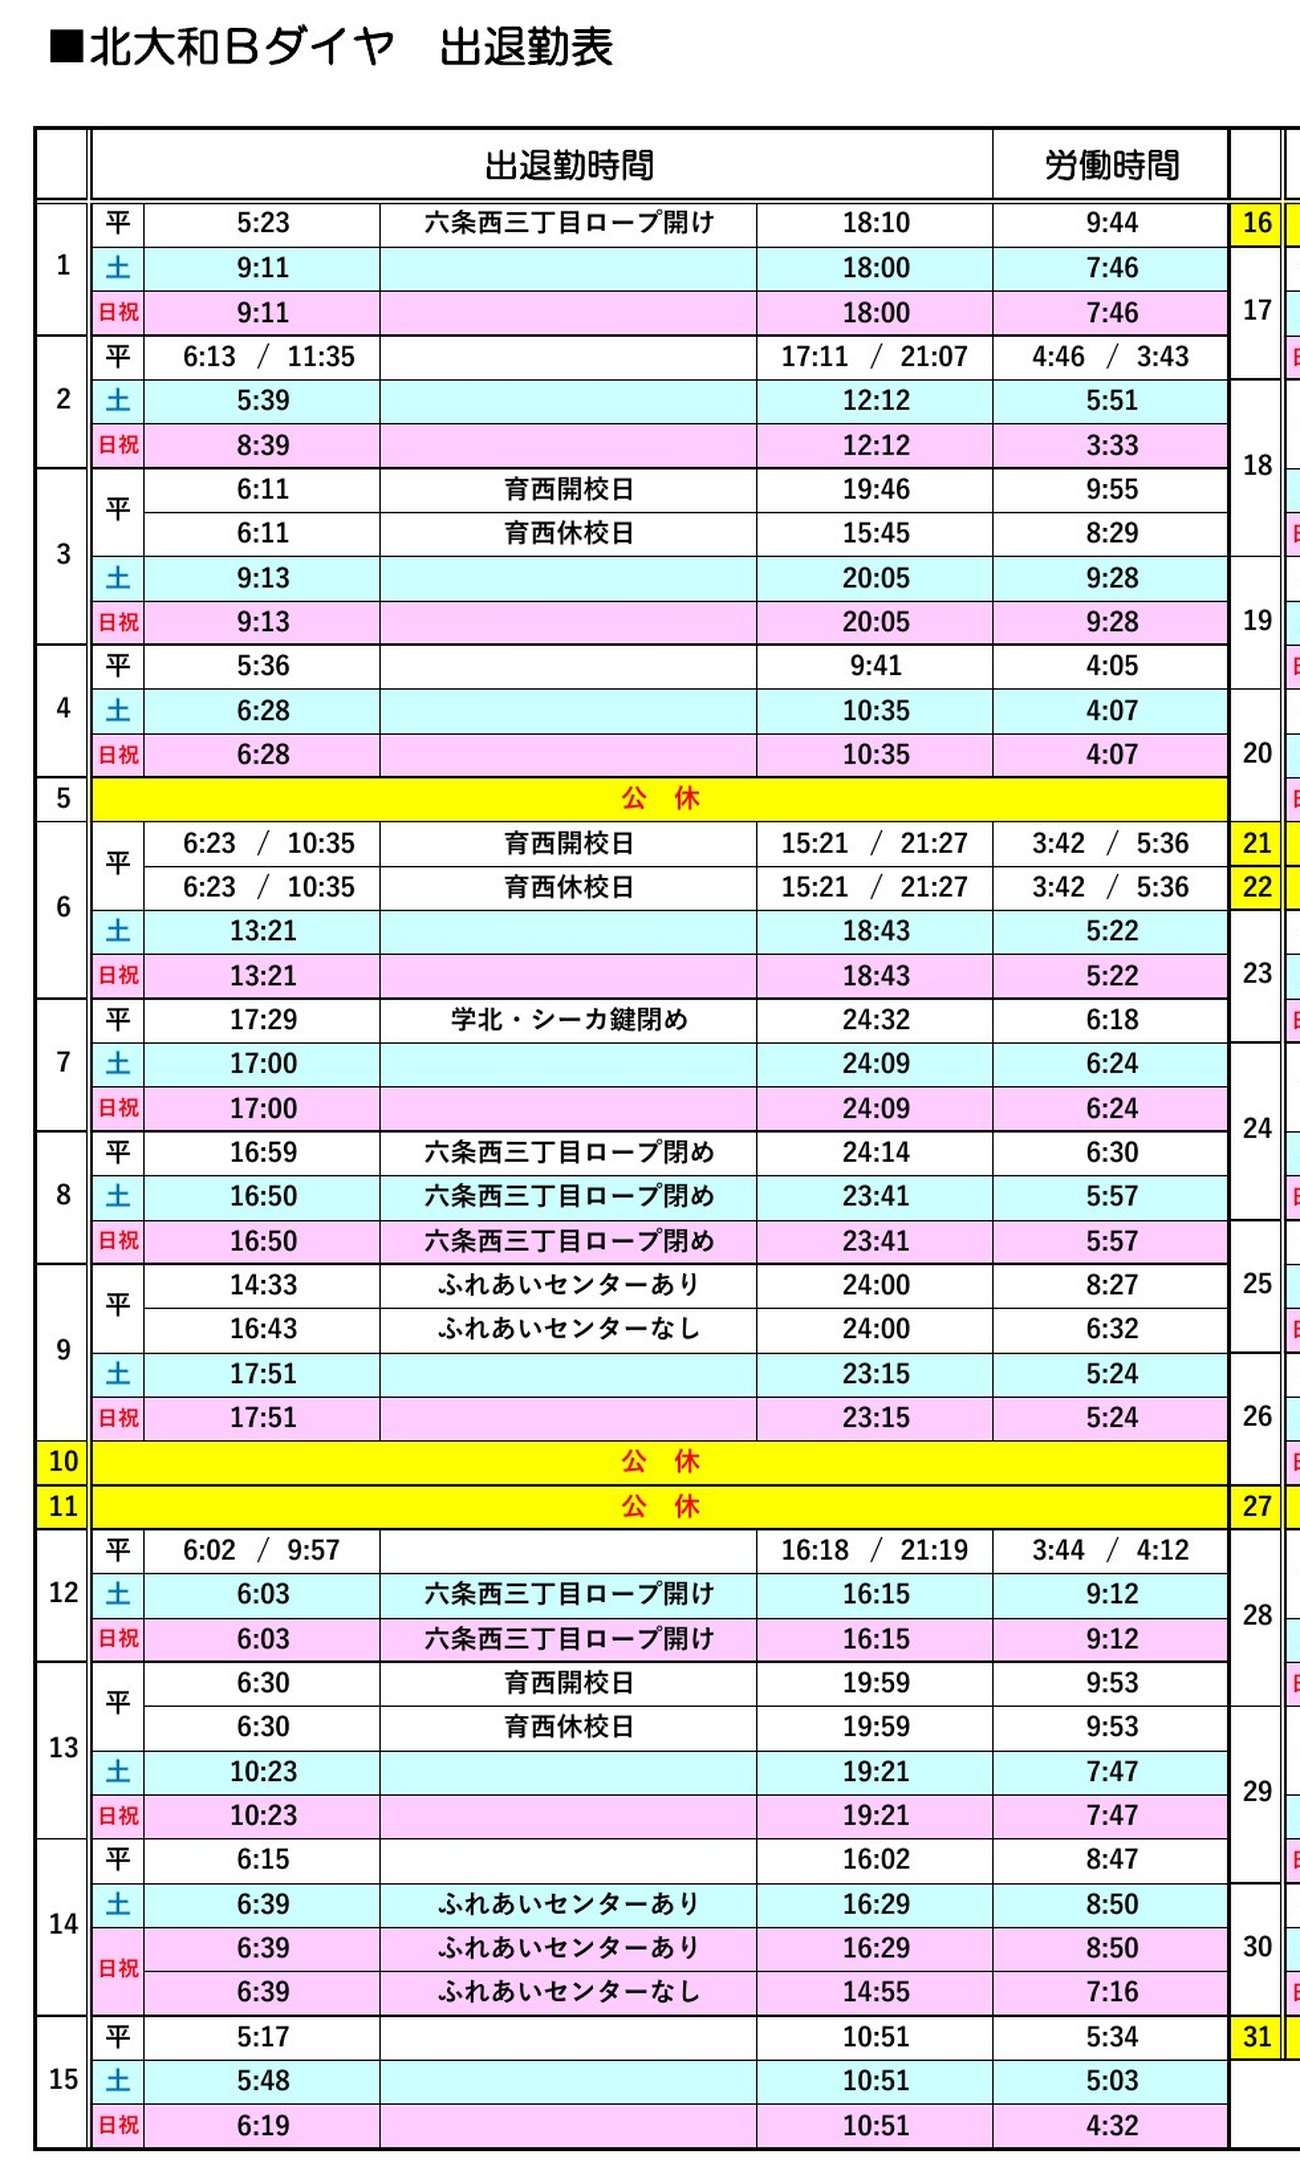
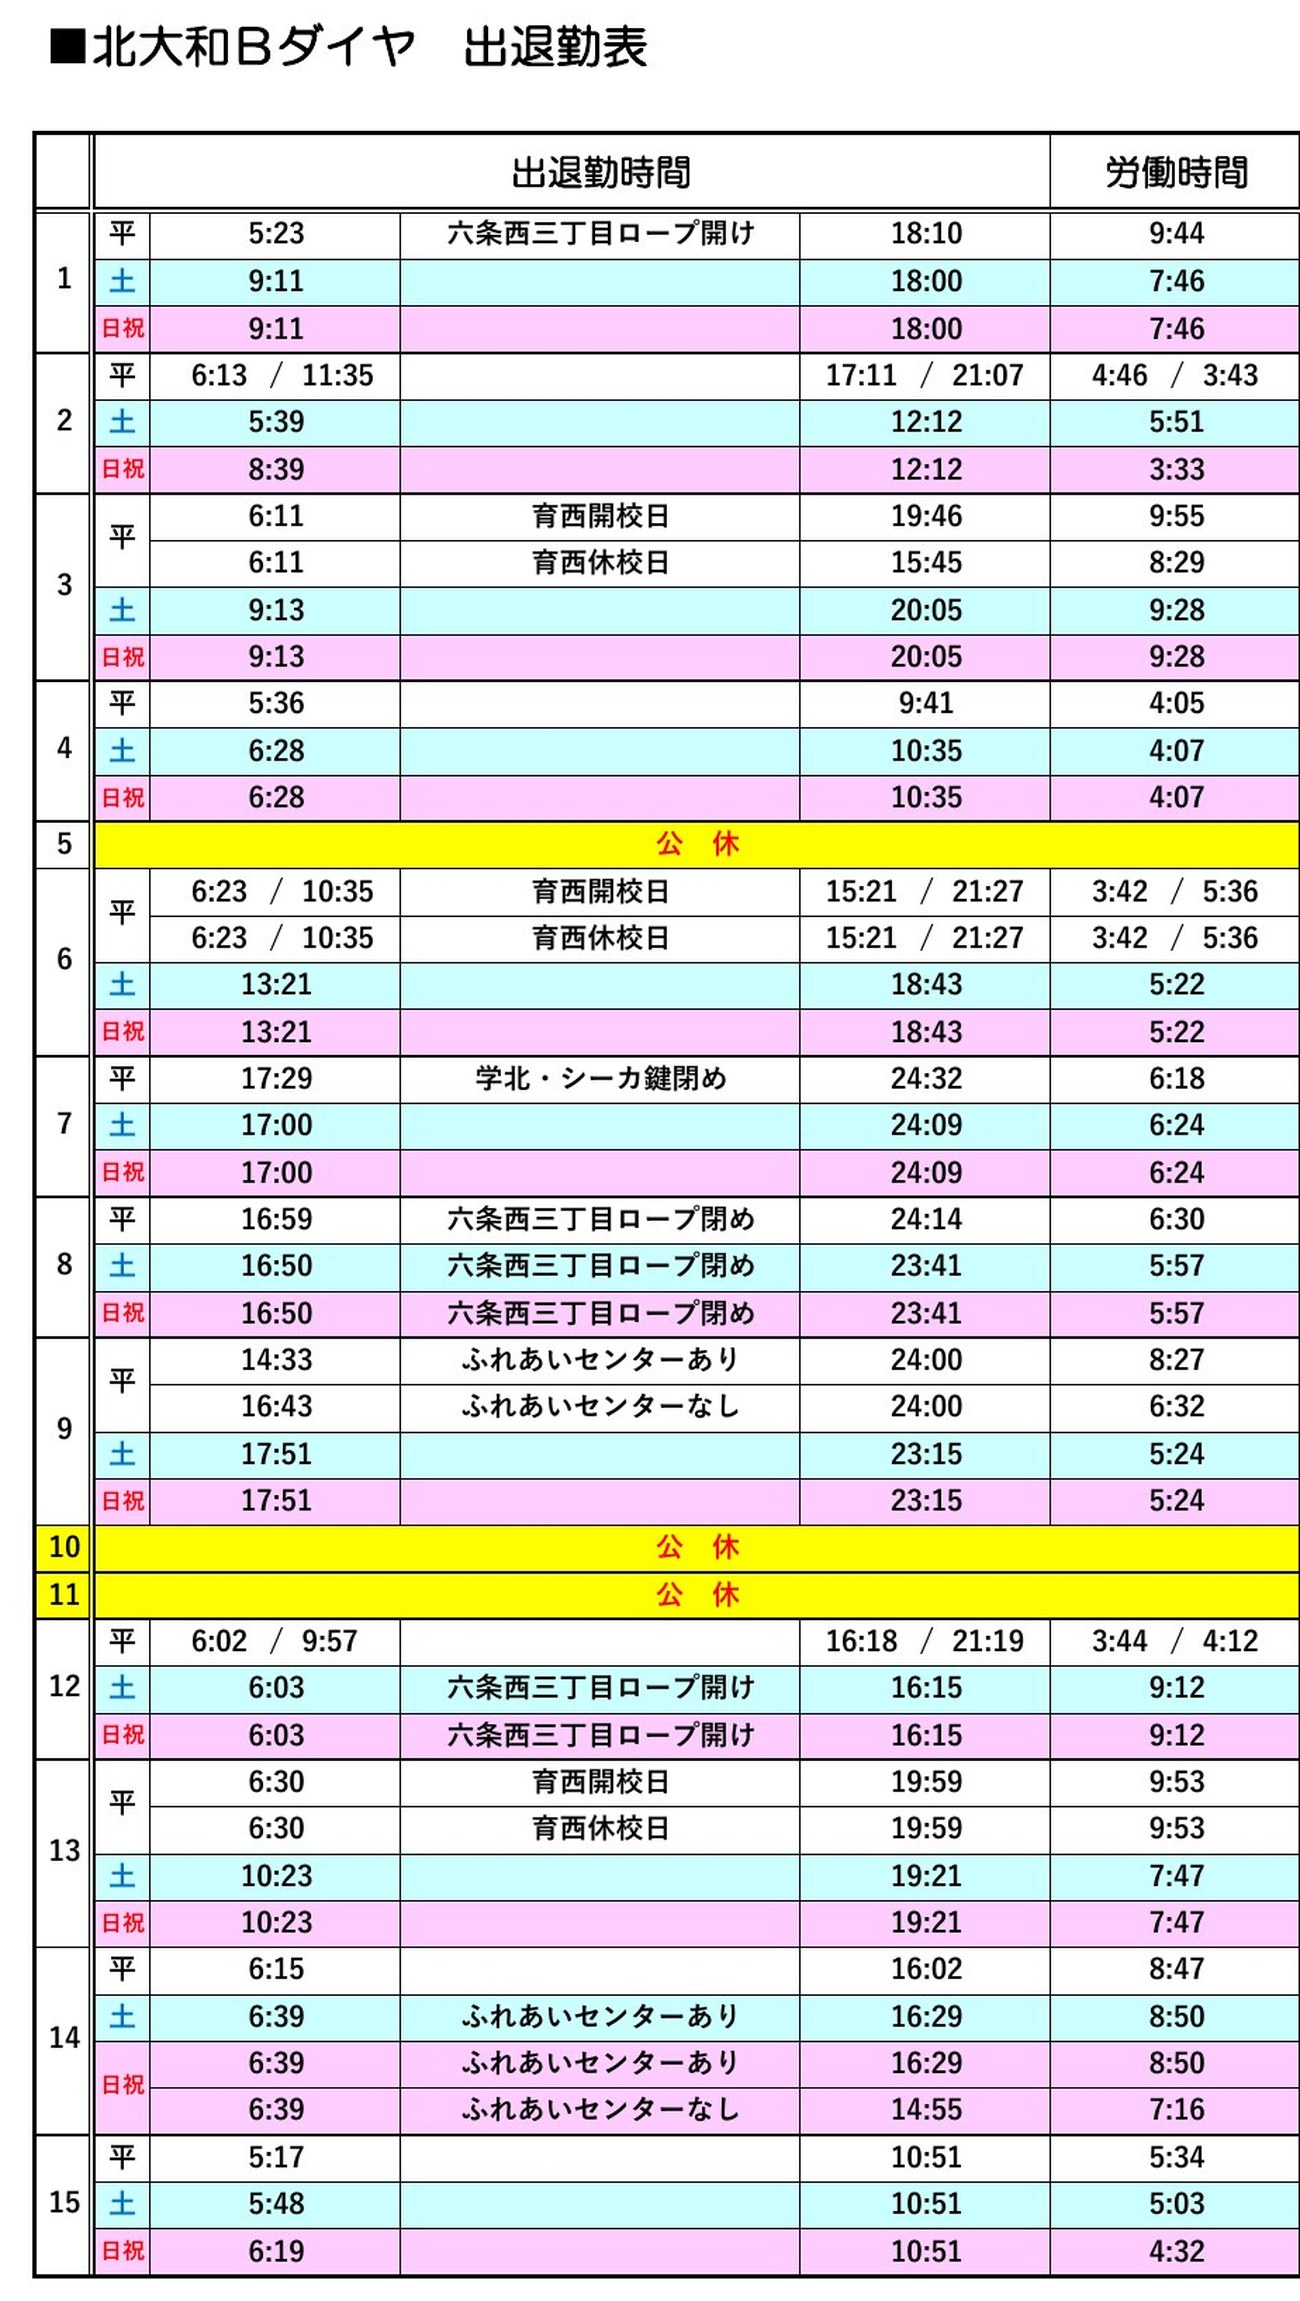
北大和Ｂの出退勤表画像を罫線で正確に分割し直し。版3.20 (by AIタケタニ)

diff --git a/index.html b/index.html
@@ -4026,7 +4026,7 @@ const PUSH_BAR_KEY  = 'ba-push-bar';     // どの版のときに帯を閉じた
 const PUSH_FAIL_KEY = 'ba-push-fail';    // 預け直しに続けて失敗した回数
 /* 案内を出し分けるための版。sw.js の版と合わせて上げる。
    これが変わると「更新された」とみなして、もう一度だけ案内を出す。 */
-const APP_VERSION   = 'v181';
+const APP_VERSION   = 'v182';
 const PUSH_SYNC_KEY = 'ba-push-synced';  // 最後に預け直した日
 
 /* 宛先をサーバーに預ける（すでにあれば上書き） */
@@ -4248,7 +4248,7 @@ async function stopPush(){
 /* 版と端末の様子をフッターに出す。
    「通知が来ない」と言われたときに、入れ方や許可の状態を
    その場で確かめられるようにするため。 */
-const APP_LABEL = 'バージョン 3.19';
+const APP_LABEL = 'バージョン 3.20';
 
 function renderAppInfo(){
   const box = document.getElementById('appInfo');

diff --git a/sw.js b/sw.js
@@ -10,7 +10,7 @@
 
 // キャッシュ名にバージョンを入れておき、更新のたびにこの値を変えることで
 // 新しいService Workerが「更新あり」と判定されるようにする
-const CACHE_VERSION = 'ba-shukkin-v181';
+const CACHE_VERSION = 'ba-shukkin-v182';
 const CACHE_FILES = [
     './',
     './index.html',
